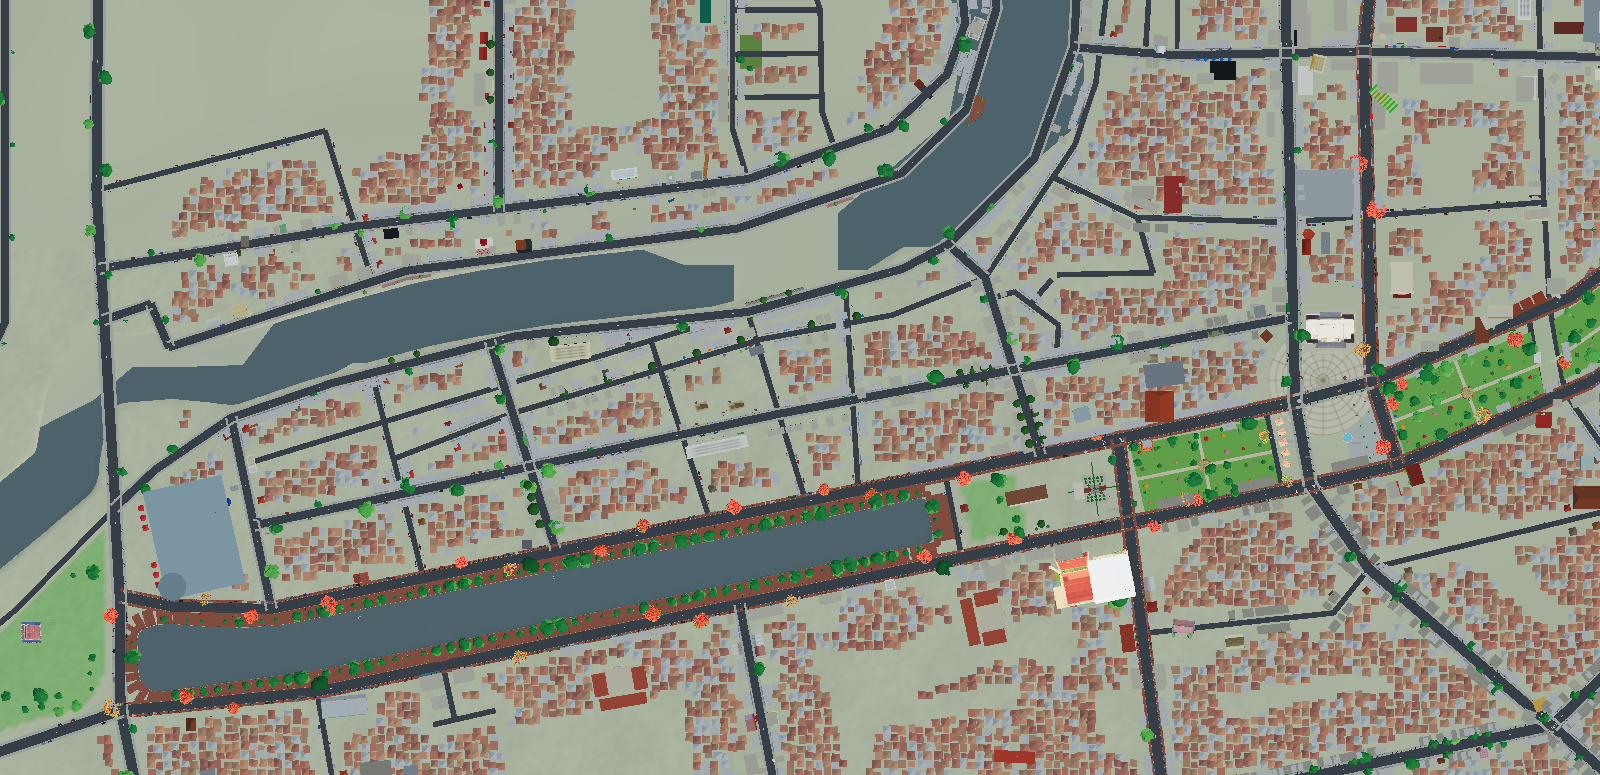
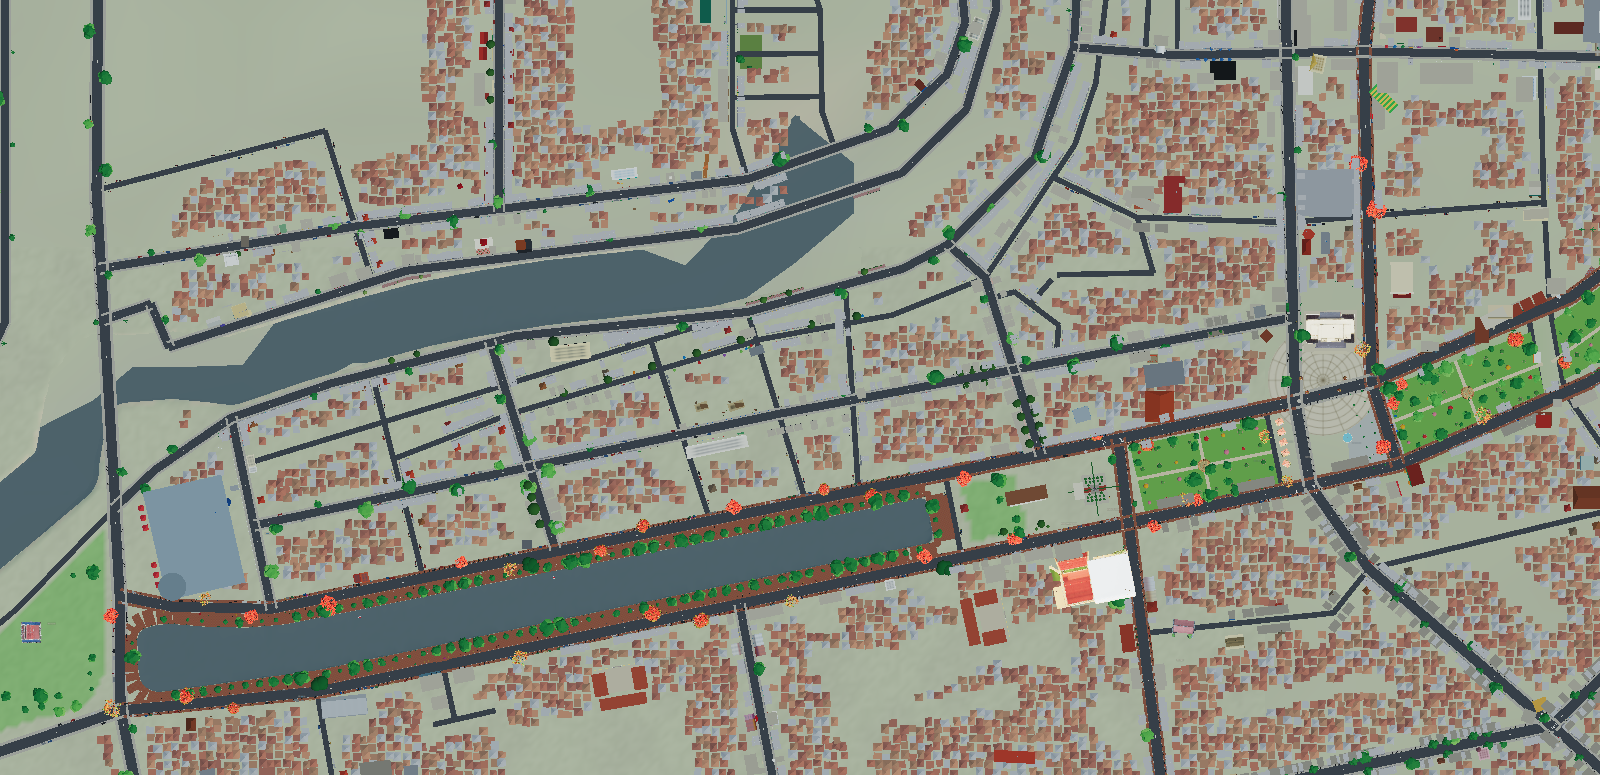
L1 Hydro: hồ Quần Ngựa t3 + nắn kênh Tam Bạc (hết xuyên t6) + reclaim cảng + kho
Sửa NƯỚC theo audit georef (3 agent) + 2 vòng phản biện ChatGPT:
- Hồ Quần Ngựa t3 (real có/game thiếu): ellipse override, nhà tự loại qua isWater.
- Nắn R3 kênh Tam Bạc hết chạy xuyên tile6 → trục thật x≈-860..-1133 qua cầu Lạc Long.
- Reclaim cảng Hoàng Diệu (sông Cấm R1 ngập dải cảng) qua override polygon thuôn + kho tôn xám.
Gates pass (fresh browser). Scorer nhiễu quá lớn → net-phẳng; VISUAL đúng-địa-lý hơn rõ.
KNOWLEDGE (cj). Chặn: không regen mapdata (thiếu osm_*.json) → chỉ override terrain/world.

diff --git a/js/terrain.js b/js/terrain.js
@@ -147,6 +147,19 @@ for (const r of RIVERS) {
   if (r.pts.some((p) => p[0] === -314 && p[1] === -182)) { r.w = 48; r.sh = 14; }
 }
 RIVERS.push({ w: 48, sh: 14, pts: [[-1257, 148], [-1250, 108], [-1238, 72], [-1220, 50], [-1150, 44], [-1092, 50]] });
+// NẮN R3 (kênh Tam Bạc): đuôi cũ chạy XUYÊN tile6 (real 0 nước) → thay bằng trục thật x≈-860..-1133
+// qua cầu Lạc Long, chạm sông Cấm R1 tại [-1133,-1125] (audit nước georef + ChatGPT vet splice an toàn).
+{
+  const samePt = (a, b) => a[0] === b[0] && a[1] === b[1];
+  const findSeq = (pts, seq) => { outer: for (let i = 0; i <= pts.length - seq.length; i++) { for (let j = 0; j < seq.length; j++) if (!samePt(pts[i + j], seq[j])) continue outer; return i; } return -1; };
+  const OLD_R3_TAIL = [[-506, -61], [-314, -182], [-282, -299], [-313, -459], [-631, -952], [-591, -1055], [-414, -1138]];
+  const NEW_R3_TAIL = [[-506, -61], [-491, -393], [-482, -646], [-650, -705], [-930, -738], [-992, -862], [-1133, -1125]];
+  const cand = RIVERS.filter((r) => findSeq(r.pts, OLD_R3_TAIL) >= 0 || findSeq(r.pts, NEW_R3_TAIL) >= 0);
+  if (cand.length === 1 && findSeq(cand[0].pts, NEW_R3_TAIL) < 0) {
+    const at = findSeq(cand[0].pts, OLD_R3_TAIL);
+    if (at >= 0) cand[0].pts.splice(at, OLD_R3_TAIL.length, ...NEW_R3_TAIL.map((p) => p.slice()));
+  } else if (cand.length !== 1) { console.warn('R3 splice: match count =', cand.length, '(bỏ qua)'); }
+}
 const riverIdx = makeBucketIndex(RIVERS.map((r) => ({ pts: r.pts, meta: [r.w, r.sh || 28] })));
 const regionIdx = makeBucketIndex(ROADS_REGION.map((r) => ({ pts: r.pts, meta: 0 })));
 const dtRoadIdx = makeBucketIndex(ROADS_DT.map((r) => ({ pts: r.pts, meta: r.c })));
@@ -225,6 +238,35 @@ function hills(x, z, v) {
   return Math.max(0, h);
 }
 
+// KHU CẢNG Hoàng Diệu (tile7/8): sông Cấm R1 (w620, từ OSM) modeled quá RỘNG/nam → ngập dải cảng +
+// bán đảo Sở GTVT (real là ĐẤT tới z≈-1250). KHÔNG dời centerline/giảm w (rủi ro sông xuyên khu khác);
+// dùng OVERRIDE đất cục bộ polygon thuôn, feather bờ 18m, chạy CUỐI groundHeightNoDeck (audit + ChatGPT vet).
+const PORT_RECLAIM = [
+  [-480, -955], [-430, -1120], [-300, -1230], [320, -1230], [450, -1120], [500, -955], [500, -900], [-480, -900],
+];
+function _inPoly(x, z, poly) {
+  let inside = false;
+  for (let i = 0, j = poly.length - 1; i < poly.length; j = i++) {
+    const [xi, zi] = poly[i], [xj, zj] = poly[j];
+    if (((zi > z) !== (zj > z)) && x < (xj - xi) * (z - zi) / (zj - zi) + xi) inside = !inside;
+  }
+  return inside;
+}
+function _segDist(x, z, a, b) {
+  const vx = b[0] - a[0], vz = b[1] - a[1], vv = vx * vx + vz * vz;
+  let t = vv ? ((x - a[0]) * vx + (z - a[1]) * vz) / vv : 0; t = Math.max(0, Math.min(1, t));
+  return Math.hypot(x - (a[0] + t * vx), z - (a[1] + t * vz));
+}
+function reclaimPort(h, x, z) {
+  if (x < -490 || x > 510 || z < -1240 || z > -890) return h;   // bbox nhanh
+  if (!_inPoly(x, z, PORT_RECLAIM)) return h;
+  let d = Infinity;
+  for (let i = 0; i < PORT_RECLAIM.length; i++) d = Math.min(d, _segDist(x, z, PORT_RECLAIM[i], PORT_RECLAIM[(i + 1) % PORT_RECLAIM.length]));
+  let t = Math.min(1, d / 18); t = t * t * (3 - 2 * t);          // feather bờ 18m
+  const raised = 0.30 + (LAND_H - 0.30) * t;                     // dryH 0.30 > cutoff isWater 0.25
+  return Math.max(h, raised);
+}
+
 // ---------- Cao độ ----------
 export function groundHeightNoDeck(x, z) {
   const v = landAt(x, z);
@@ -257,6 +299,13 @@ export function groundHeightNoDeck(x, z) {
     const sd = hoSenSD(x, z);
     if (sd < 0) h = lerp(-3, 1.7, smoothstep(-2, 0, sd));
   }
+  // HỒ QUẦN NGỰA (tile3 góc Đông-Nam) — real CÓ hồ lớn nhưng game THIẾU (audit nước georef, t3=2.4).
+  // Ellipse tâm ~(600,228), tràn ra ngoài khung đông; carve nước, nhà tự loại qua isWater. Chỉ hạ (an toàn).
+  if (x > 455 && x < 760 && z > 120 && z < 340) {
+    const dx = (x - 600) / 138, dz = (z - 228) / 100, r2 = dx * dx + dz * dz;
+    if (r2 < 1) { const hl = lerp(-3, 1.9, smoothstep(0.45, 1.0, r2)); if (hl < h) h = hl; }
+  }
+  h = reclaimPort(h, x, z);   // ĐẤT cảng: chạy CUỐI (sau mọi carve sông/hồ) để R1 không ngập lại
   return h;
 }
 

diff --git a/js/world.js b/js/world.js
@@ -18857,6 +18857,42 @@ const s4Tower = (x, z, ry, W, D, FL, wallHex, name, signTxt, signBg) => {
     }
   }
 
+  // KHO CẢNG Hoàng Diệu (tile8) — dải kho dài mái tôn XÁM song song sông Cấm, TRÊN đất vừa reclaim
+  // (real_8: dải kho CN lớn dọc bờ; đất reclaim để trống = void → lấp kho cho đúng silhouette cảng vệ tinh).
+  {
+    const khoGeos = [];
+    const khoRows = [
+      { z: -1000, x1: -400, x2: 480, d: 34 },
+      { z: -1072, x1: -380, x2: 480, d: 38 },
+      { z: -1148, x1: -240, x2: 460, d: 40 },
+    ];
+    let ks = 91237; const krnd = () => { ks = (ks * 1103515245 + 12345) & 0x7fffffff; return ks / 0x7fffffff; };
+    for (const row of khoRows) {
+      let x = row.x1;
+      while (x < row.x2) {
+        const w = 60 + krnd() * 68;
+        const cx = x + w / 2, cz = row.z + (krnd() - 0.5) * 10;
+        if (cx > row.x2) break;
+        const gy = groundHeight(cx, cz);
+        if (gy > LAND_H - 0.5 && !isWater(cx, cz) && Math.abs(groundHeightNoDeck(cx, cz) - LAND_H) < 0.4) {
+          const hh = 7 + krnd() * 3;
+          const box = new THREE.BoxGeometry(w, hh, row.d);
+          const rc = 0.55 + krnd() * 0.06;
+          const nrm = box.attributes.normal, cn = box.attributes.position.count, c = new Float32Array(cn * 3);
+          for (let v = 0; v < cn; v++) { const isR = nrm.getY(v) > 0.6; const sh = isR ? 0.98 : 0.82 + 0.14 * Math.abs(nrm.getX(v)); const t = isR ? rc + 0.06 : rc; c[v * 3] = t * sh * 0.98; c[v * 3 + 1] = t * sh; c[v * 3 + 2] = t * sh * 1.02; }
+          box.setAttribute('color', new THREE.BufferAttribute(c, 3));
+          box.translate(cx, gy + hh / 2, cz);
+          khoGeos.push(box); addCollider(cx, cz, Math.max(w, row.d) * 0.5);
+        }
+        x += w + 10 + krnd() * 14;
+      }
+    }
+    if (khoGeos.length) {
+      const mk = new THREE.Mesh(mergeGeometries(khoGeos), new THREE.MeshLambertMaterial({ vertexColors: true }));
+      mk.castShadow = true; mk.receiveShadow = true; mk.name = 'port_kho'; khoGeos.forEach((g) => g.dispose()); scene.add(mk);
+    }
+  }
+
   // vài tòa cao tầng khu Lê Hồng Phong (đông trung tâm)
   function tower(x, z, w, hgt, color) {
     const b = new THREE.Mesh(new THREE.BoxGeometry(w, hgt, w), mat(color));

diff --git a/KNOWLEDGE.md b/KNOWLEDGE.md
@@ -315,6 +315,18 @@ nhờ model vision ngoài chấm từng cặp, sửa theo cụm, lặp tới khi
 
 ## 10. Nhật ký cập nhật (thêm dòng mới ở TRÊN CÙNG)
 
+- **2026-07-15 (cj)** [L1 HYDRO — sửa nước theo audit georef + 2 vòng phản biện ChatGPT]: (1) **hồ Quần Ngựa t3**
+    (real có, game thiếu) — ellipse override groundHeightNoDeck tâm ~(600,228), nhà tự loại qua isWater; (2) **nắn
+    R3 kênh Tam Bạc** hết chạy XUYÊN tile6 (real 0 nước) → trục thật x≈-860..-1133 qua cầu Lạc Long (splice
+    OLD_R3_TAIL→NEW_R3_TAIL bằng findSeq, terrain.js sau prefix-splice); (3) **reclaim cảng Hoàng Diệu** t7/8:
+    sông Cấm R1 (w620 từ OSM) modeled quá nam ngập dải cảng → override `reclaimPort()` polygon thuôn PORT_RECLAIM
+    (feather bờ 18m, dryH 0.30, chạy CUỐI groundHeightNoDeck để R1 không ngập lại — KHÔNG dời centerline/giảm w);
+    (4) **kho cảng** world.js (dãy kho tôn xám song song sông trên đất reclaim, tự chừa nước). GATES pass (fresh
+    browser — LƯU Ý preview cache module cũ, phải probe bằng browser mới). ĐO: scorer NHIỄU quá lớn (t8 2.7↔3.5
+    giữa 2 lần) → net-phẳng 3.6→~3.6; nhưng VISUAL (chuẩn chính, bài học nhiễu): cảng có kho như real_8, hồ t3
+    đúng, t6 hết nước sai (+0.8), arc t4 chảy liền — đều ĐÚNG-ĐỊA-LÝ hơn. TODO: canal R3 mới có thể false-water
+    rìa đông t4 (t4 tụt ~0.7) → tinh chỉnh x canal về đông (sát x≈-400) lô sau. CHẶN: KHÔNG regen mapdata được
+    (thiếu osm_*.json + path Linux) → lever #1 (ROADS_DT/mask/GARDENS) không sửa gốc; chỉ override terrain/world.
 - **2026-07-15 (ci)** ⚠ [LỖI ĐO LƯỜNG NGHIÊM TRỌNG — baseline vệ tinh "5.96" là ẢO]: phát hiện
     `rescore_both.sh` phiên trước chụp 8 aerial bằng **toạ độ LƯỚI tùy ý** `game_2=(-150,250),
     game_3=(399,250), game_6=(399,-250), game_7=(-350,-700)...` — KHÔNG georef theo lat/lon tâm của
